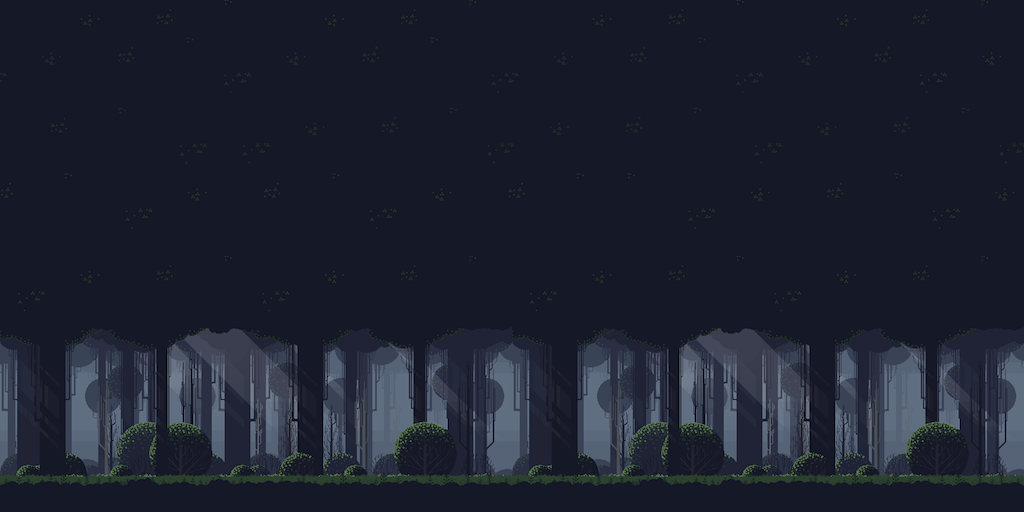
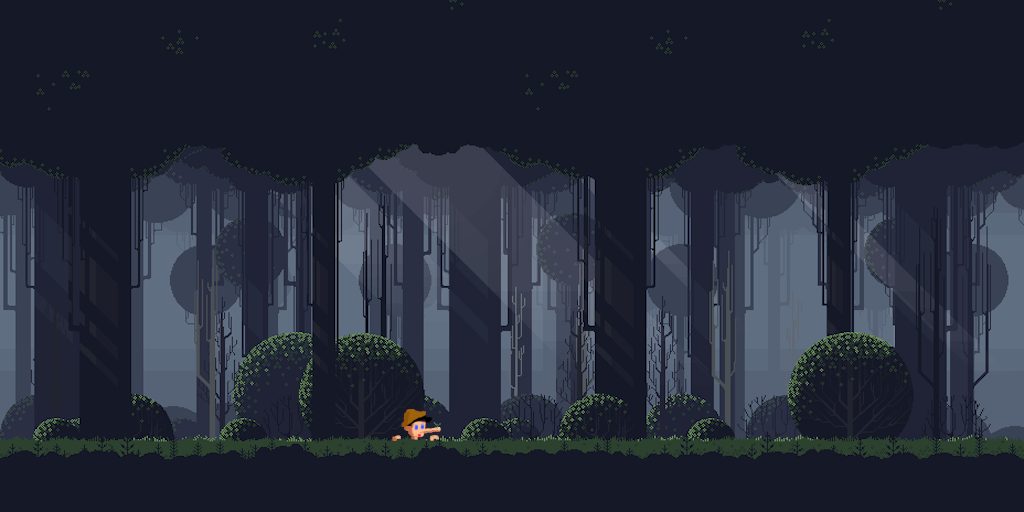
- some small adjustments

diff --git a/src/my_robot_commander_py/my_robot_commander_py/cubic_doggo_mujoco_walk.py b/src/my_robot_commander_py/my_robot_commander_py/cubic_doggo_mujoco_walk.py
@@ -135,21 +135,19 @@ def main():
             pinocchio_joint_idx = pinocchio_model.joints[pinocchio_joint_id].idx_q
             mujoco_ctrl_targets.append(pinocchio_joint_targets[pinocchio_joint_idx])
     
-
     #########################################################################################################################
     text_update_time   = 0.1                         # s
     action_update_time = 3.0                         # s
-    action_delay_time  = 1.0                         # s
+    action_delay_time  = 3.0                         # s
 
     delta_t = mujoco_model.opt.timestep
     swing_fraction = 0.5
     gait_frequency = 1.5                            # Hz
     lift, x_shift, y_shift = 0.03, 0.0, -0.007      # m
-    x_stride_range, y_stride_range = [-0.03, 0.01], [0.0, 0.04]
+    x_stride_range, y_stride_range = [-0.03, 0.03], [0.0, 0.04]
     #########################################################################################################################
 
-
-    last_text_update = 0.0
+    last_text_update   = 0.0
     last_action_update = 0.0
     is_standing = False
     gait_phase, x_stride, y_stride = 0.0, 0.0, 0.0
